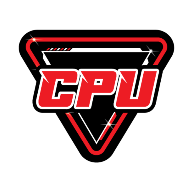
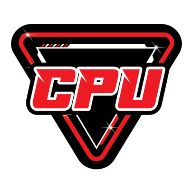
ไอคอนแอป: เอาพื้นขาวออกจากไอคอนหลัก แยกไฟล์ตามที่แต่ละระบบต้องการ
ผู้ใช้ถามว่าไอคอนบน desktop ต้องมีพื้นขาวไหม — ไม่จำเป็น
พื้นขาวมาจาก icon-192/512.png ไม่ใช่ favicon (ซึ่งโปร่งใสอยู่แล้ว)

แต่ไม่ใช่ทุกที่ที่โปร่งใสได้ จึงแยกไฟล์ตามหน้าที่:

  icon-192.png / icon-512.png   พื้นโปร่งใส  โลโก้กิน 92%
    ใช้เป็นไอคอนแอปทั่วไป (desktop / หน้าจอโฮม) → กลืนกับพื้นหลัง ไม่เป็นกล่องขาว
    ขยายจาก 84% เป็น 92% ได้ เพราะไม่ต้องเผื่อขอบให้ระบบครอบ

  icon-maskable-512.png         พื้นขาวทึบ   โลโก้กิน 61%
    ⚠ ต้องทึบ — Android ครอบทรงของตัวเอง ถ้าโปร่งใสจะเห็นเป็นรูโหว่

  apple-touch-icon.png (180px)  พื้นขาวทึบ   โลโก้กิน 86%   ← ไฟล์ใหม่
    ⚠ ต้องทึบ — iOS/iPad เปลี่ยนพื้นโปร่งใสเป็นสีดำ
    เดิม index.html ชี้ไป icon-192.png ซึ่งตอนนี้โปร่งใสแล้ว จะกลายเป็นพื้นดำบน iPad

  favicon.ico                   พื้นโปร่งใส  (ไม่เปลี่ยน)

ตรวจค่าอัลฟาของพิกเซลมุมภาพในทุกไฟล์แล้ว ตรงตามที่ตั้งใจทั้งหมด
และยืนยันว่ายังมีเนื้อโลโก้อยู่กลางภาพจริง

Changed region(s): [[0.0312, 0.125, 0.9688, 0.9062]]

diff --git a/public/index.html b/public/index.html
@@ -13,9 +13,9 @@
       name="description"
       content="CPU ERP - ระบบบริหารคลังสินค้า"
     />
-    <!-- ต้องเป็นรูปจัตุรัสพื้นทึบ — iOS/iPad จะเปลี่ยนพื้นโปร่งใสเป็นสีดำ
-         และรูปที่ไม่ใช่จัตุรัสจะถูกยืดผิดสัดส่วน -->
-    <link rel="apple-touch-icon" href="%PUBLIC_URL%/icon-192.png" />
+    <!-- ⚠ ต้องเป็นไฟล์ "พื้นทึบ" คนละตัวกับ icon-192.png (ซึ่งพื้นโปร่งใส)
+         เพราะ iOS/iPad เปลี่ยนพื้นโปร่งใสเป็นสีดำ · และต้องเป็นจัตุรัส ไม่งั้นถูกยืด -->
+    <link rel="apple-touch-icon" sizes="180x180" href="%PUBLIC_URL%/apple-touch-icon.png" />
     <!--
       manifest.json provides metadata used when your web app is installed on a
       user's mobile device or desktop. See https://developers.google.com/web/fundamentals/web-app-manifest/
